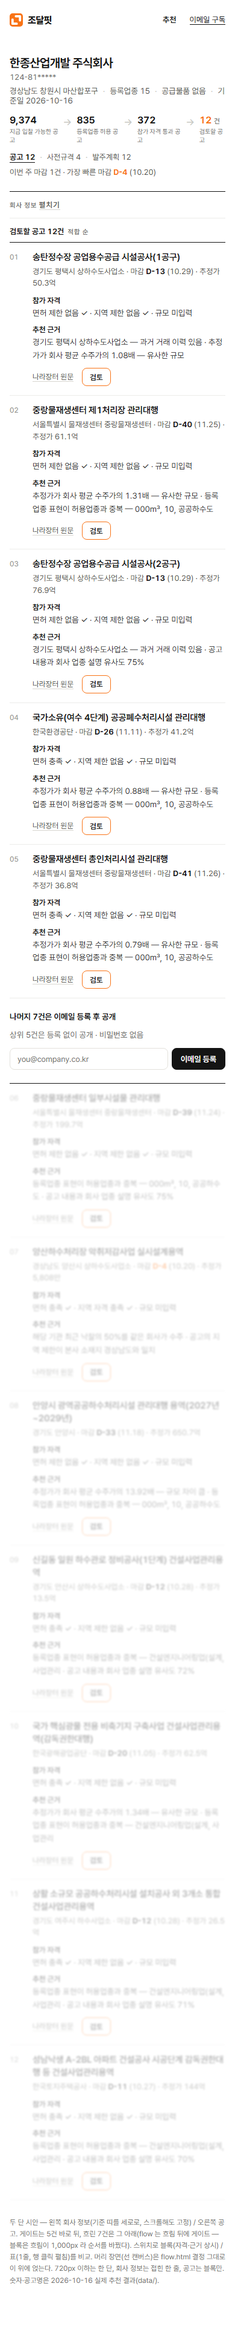
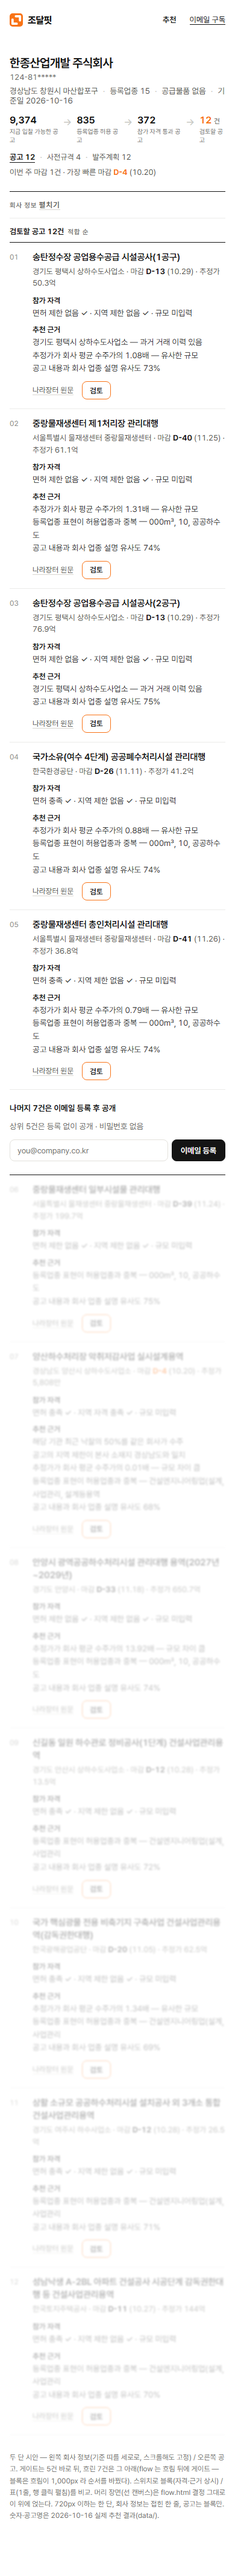
design(results): 두 단 블록 — 추천 근거 2개 자르기 폐기, 전부 한 줄씩

diff --git a/docs/design/prototypes/split.html b/docs/design/prototypes/split.html
@@ -92,7 +92,7 @@ a { color:inherit; text-decoration:none } .dim { color:#6b6b67 } .mute { color:#
   .bk .q, .bk .w { grid-template-columns:1fr; gap:0 } .bk .m { line-height:1.5 }
   .gateline .in { width:100%; flex-wrap:wrap } .gateline .in span:first-child { flex:1; width:auto }
 }
-</style></head><body data-v="block"><div class="wrap"><div class="nav"><a class="brand" href="#"><svg viewBox="0 0 64 64" width="22" height="22" aria-hidden="true"><rect width="64" height="64" rx="14.08" fill="#f97316"/><path d="M30 14 H50 V34 M14 30 V50 H34" fill="none" stroke="#fff" stroke-width="11" stroke-linecap="round" stroke-linejoin="round"/></svg>조달핏</a><div class="links"><b>추천</b><span>검토함</span><span>개선 기록</span><span class="cta">이메일 구독</span></div></div><div class="head"><h1>한종산업개발 주식회사<small>124-81*****</small></h1><div class="meta"><span>경상남도 창원시 마산합포구</span><span>등록업종 15</span><span>공급물품 없음</span><span>기준일 2026-10-16</span></div><div class="sum"><div class="chain"><span class="k">걸러낸 경로</span><div><div class="n ">9,374</div><div class="l">지금 입찰 가능한 공고</div></div><i>→</i><div><div class="n ">835</div><div class="l">등록업종 허용 공고</div></div><i>→</i><div><div class="n ">372</div><div class="l">참가 자격 통과 공고</div></div><i>→</i><div><div class="n acc">12<small>건</small></div><div class="l">검토할 공고</div></div></div><div class="tabs"><div><b>공고 12</b><span>사전규격 4</span><span>발주계획 12</span></div><div class="due">이번 주 마감 1건 · 가장 빠른 마감 <span class="d hot">D-4</span> (10.20)</div></div></div></div><div class="cols"><details class="side" open><summary><span class="k">회사 정보 <span class="h o">펼치기</span><span class="h c">접기</span></span></summary><div class="sec"><span class="k">등록업종 15</span><ul><li class="rep">기타자유업종</li><li>가축분뇨시설관리업</li><li>건설엔지니어링업</li><li>공공하수도 관리대행업</li><li>산업·환경설비공사업</li><li>시설물관리를 전문으로 하는 자</li><li>엔지니어링사업</li><li>유독물관리대행기관</li><li>전기공사업</li><li>전문소방시설공사업</li><li>환경전문공사업</li></ul></div><div class="sec"><span class="k">공급물품</span><div class="txt"><span class="dim">등록 없음</span> — 물품 공고 추천에는 등록 필요</div></div><div class="sec"><span class="k">지역</span><div class="txt">본사 <b>경상남도 창원시 마산합포구</b><br><span class="dim">지역 제한 공고 판정 기준</span></div></div><div class="sec"><span class="k">면허</span><div class="txt">공고 요구 면허 그룹마다 등록업종 중 하나 포함 시 통과</div></div><div class="sec"><span class="k">규모</span><div class="txt"><span class="dim">미입력</span> — 소기업·중소기업 제한 공고 판정 기준</div></div><div class="sec"><span class="k">사업자 상태</span><div class="txt">계속사업자 · 제재 없음</div></div><div class="act"><a class="bt dark" href="#">확인</a><a class="bt txt" href="#"><u>수정 요청</u></a></div><span class="mute">나라장터 업체정보 · 10.14 갱신</span></details><div class="main"><div class="mh"><span class="k"><b>검토할 공고 12건</b>적합 순</span><div class="sw"><span class="on" data-v="block">블록</span><span data-v="table">표</span></div></div><div class="v-block"><div class="bk"><span class="no">01</span><div><div class="t">송탄정수장 공업용수공급 시설공사(1공구)</div><div class="m">경기도 평택시 상하수도사업소 · 마감 <span class="d ">D-13</span> (10.29) · 추정가 50.3억</div><div class="q"><b>참가 자격</b><span>면허 제한 없음 ✓ · 지역 제한 없음 ✓ · 규모 미입력</span></div><div class="w"><b>추천 근거</b><span>경기도 평택시 상하수도사업소 — 과거 거래 이력 있음 · 추정가가 회사 평균 수주가의 1.08배 — 유사한 규모</span></div><div class="acts"><a class="u" href="https://www.g2b.go.kr/link/PNPE027_01/single/?bidPbancNo=R26BK01773124&amp;bidPbancOrd=000">나라장터 원문</a><a class="bt rv" href="#">검토</a></div></div></div><div class="bk"><span class="no">02</span><div><div class="t">중랑물재생센터 제1처리장 관리대행</div><div class="m">서울특별시 물재생센터 중랑물재생센터 · 마감 <span class="d ">D-40</span> (11.25) · 추정가 61.1억</div><div class="q"><b>참가 자격</b><span>면허 제한 없음 ✓ · 지역 제한 없음 ✓ · 규모 미입력</span></div><div class="w"><b>추천 근거</b><span>추정가가 회사 평균 수주가의 1.31배 — 유사한 규모 · 등록업종 표현이 허용업종과 중복 — 000㎥, 10, 공공하수도</span></div><div class="acts"><a class="u" href="https://www.g2b.go.kr/link/PNPE027_01/single/?bidPbancNo=R26BK01771325&amp;bidPbancOrd=001">나라장터 원문</a><a class="bt rv" href="#">검토</a></div></div></div><div class="bk"><span class="no">03</span><div><div class="t">송탄정수장 공업용수공급 시설공사(2공구)</div><div class="m">경기도 평택시 상하수도사업소 · 마감 <span class="d ">D-13</span> (10.29) · 추정가 76.9억</div><div class="q"><b>참가 자격</b><span>면허 제한 없음 ✓ · 지역 제한 없음 ✓ · 규모 미입력</span></div><div class="w"><b>추천 근거</b><span>경기도 평택시 상하수도사업소 — 과거 거래 이력 있음 · 공고 내용과 회사 업종 설명 유사도 75%</span></div><div class="acts"><a class="u" href="https://www.g2b.go.kr/link/PNPE027_01/single/?bidPbancNo=R26BK01772889&amp;bidPbancOrd=000">나라장터 원문</a><a class="bt rv" href="#">검토</a></div></div></div><div class="bk"><span class="no">04</span><div><div class="t">국가소유(여수 4단계) 공공폐수처리시설 관리대행</div><div class="m">한국환경공단 · 마감 <span class="d ">D-26</span> (11.11) · 추정가 41.2억</div><div class="q"><b>참가 자격</b><span>면허 충족 ✓ · 지역 제한 없음 ✓ · 규모 미입력</span></div><div class="w"><b>추천 근거</b><span>추정가가 회사 평균 수주가의 0.88배 — 유사한 규모 · 등록업종 표현이 허용업종과 중복 — 000㎥, 10, 공공하수도</span></div><div class="acts"><a class="u" href="https://www.g2b.go.kr/link/PNPE027_01/single/?bidPbancNo=R26BK01751505&amp;bidPbancOrd=000">나라장터 원문</a><a class="bt rv" href="#">검토</a></div></div></div><div class="bk"><span class="no">05</span><div><div class="t">중랑물재생센터 총인처리시설 관리대행</div><div class="m">서울특별시 물재생센터 중랑물재생센터 · 마감 <span class="d ">D-41</span> (11.26) · 추정가 36.8억</div><div class="q"><b>참가 자격</b><span>면허 충족 ✓ · 지역 제한 없음 ✓ · 규모 미입력</span></div><div class="w"><b>추천 근거</b><span>추정가가 회사 평균 수주가의 0.79배 — 유사한 규모 · 등록업종 표현이 허용업종과 중복 — 000㎥, 10, 공공하수도</span></div><div class="acts"><a class="u" href="https://www.g2b.go.kr/link/PNPE027_01/single/?bidPbancNo=R26BK01771347&amp;bidPbancOrd=000">나라장터 원문</a><a class="bt rv" href="#">검토</a></div></div></div><div class="gateline"><b>나머지 7건은 이메일 등록 후 공개</b><span class="dim">상위 5건은 등록 없이 공개 · 비밀번호 없음</span><span class="sp"></span><span class="in"><span>you@company.co.kr</span><span class="bt dark">이메일 등록</span></span></div><div class="fade"><div class="bk"><span class="no">06</span><div><div class="t">중랑물재생센터 일부시설물 관리대행</div><div class="m">서울특별시 물재생센터 중랑물재생센터 · 마감 <span class="d ">D-39</span> (11.24) · 추정가 199.7억</div><div class="q"><b>참가 자격</b><span>면허 제한 없음 ✓ · 지역 제한 없음 ✓ · 규모 미입력</span></div><div class="w"><b>추천 근거</b><span>등록업종 표현이 허용업종과 중복 — 000㎥, 10, 공공하수도 · 공고 내용과 회사 업종 설명 유사도 75%</span></div><div class="acts"><a class="u" href="https://www.g2b.go.kr/link/PNPE027_01/single/?bidPbancNo=R26BK01771266&amp;bidPbancOrd=001">나라장터 원문</a><a class="bt rv" href="#">검토</a></div></div></div><div class="bk"><span class="no">07</span><div><div class="t">양산하수처리장 악취저감사업 실시설계용역</div><div class="m">경상남도 양산시 상하수도사업소 · 마감 <span class="d hot">D-4</span> (10.20) · 추정가 5,808만</div><div class="q"><b>참가 자격</b><span>면허 충족 ✓ · 지역 자격 충족 ✓ · 규모 미입력</span></div><div class="w"><b>추천 근거</b><span>해당 기관 최근 낙찰의 50%를 같은 회사가 수주 · 공고의 지역 제한이 본사 소재지 경상남도와 일치</span></div><div class="acts"><a class="u" href="https://www.g2b.go.kr/link/PNPE027_01/single/?bidPbancNo=R26BK01769297&amp;bidPbancOrd=000">나라장터 원문</a><a class="bt rv" href="#">검토</a></div></div></div><div class="bk"><span class="no">08</span><div><div class="t">안양시 광역공공하수처리시설 관리대행 용역(2027년~2029년)</div><div class="m">경기도 안양시 · 마감 <span class="d ">D-33</span> (11.18) · 추정가 650.7억</div><div class="q"><b>참가 자격</b><span>면허 제한 없음 ✓ · 지역 제한 없음 ✓ · 규모 미입력</span></div><div class="w"><b>추천 근거</b><span>추정가가 회사 평균 수주가의 13.92배 — 규모 차이 큼 · 등록업종 표현이 허용업종과 중복 — 000㎥, 10, 공공하수도</span></div><div class="acts"><a class="u" href="https://www.g2b.go.kr/link/PNPE027_01/single/?bidPbancNo=R26BK01772155&amp;bidPbancOrd=000">나라장터 원문</a><a class="bt rv" href="#">검토</a></div></div></div><div class="bk"><span class="no">09</span><div><div class="t">신길동 일원 하수관로 정비공사(1단계) 건설사업관리용역</div><div class="m">경기도 안산시 상하수도사업소 · 마감 <span class="d ">D-12</span> (10.28) · 추정가 13.5억</div><div class="q"><b>참가 자격</b><span>면허 충족 ✓ · 지역 제한 없음 ✓ · 규모 미입력</span></div><div class="w"><b>추천 근거</b><span>등록업종 표현이 허용업종과 중복 — 건설엔지니어링업(설계, 사업관리 · 공고 내용과 회사 업종 설명 유사도 72%</span></div><div class="acts"><a class="u" href="https://www.g2b.go.kr/link/PNPE027_01/single/?bidPbancNo=R26BK01752112&amp;bidPbancOrd=000">나라장터 원문</a><a class="bt rv" href="#">검토</a></div></div></div><div class="bk"><span class="no">10</span><div><div class="t">국가 핵심광물 전용 비축기지 구축사업 건설사업관리용역(감독권한대행)</div><div class="m">한국광해광업공단 · 마감 <span class="d ">D-20</span> (11.05) · 추정가 62.5억</div><div class="q"><b>참가 자격</b><span>면허 충족 ✓ · 지역 제한 없음 ✓ · 규모 미입력</span></div><div class="w"><b>추천 근거</b><span>추정가가 회사 평균 수주가의 1.34배 — 유사한 규모 · 등록업종 표현이 허용업종과 중복 — 건설엔지니어링업(설계, 사업관리</span></div><div class="acts"><a class="u" href="https://www.g2b.go.kr/link/PNPE027_01/single/?bidPbancNo=R26BK01740690&amp;bidPbancOrd=000">나라장터 원문</a><a class="bt rv" href="#">검토</a></div></div></div><div class="bk"><span class="no">11</span><div><div class="t">상활 소규모 공공하수처리시설 설치공사 외 3개소 통합 건설사업관리용역</div><div class="m">경기도 여주시 하수사업소 · 마감 <span class="d ">D-12</span> (10.28) · 추정가 26.5억</div><div class="q"><b>참가 자격</b><span>면허 충족 ✓ · 지역 제한 없음 ✓ · 규모 미입력</span></div><div class="w"><b>추천 근거</b><span>등록업종 표현이 허용업종과 중복 — 건설엔지니어링업(설계, 사업관리 · 공고 내용과 회사 업종 설명 유사도 71%</span></div><div class="acts"><a class="u" href="https://www.g2b.go.kr/link/PNPE027_01/single/?bidPbancNo=R26BK01751860&amp;bidPbancOrd=000">나라장터 원문</a><a class="bt rv" href="#">검토</a></div></div></div><div class="bk"><span class="no">12</span><div><div class="t">성남낙생 A-2BL 아파트 건설공사 시공단계 감독권한대행 등 건설사업관리용역</div><div class="m">한국토지주택공사 · 마감 <span class="d ">D-11</span> (10.27) · 추정가 144억</div><div class="q"><b>참가 자격</b><span>면허 충족 ✓ · 지역 제한 없음 ✓ · 규모 미입력</span></div><div class="w"><b>추천 근거</b><span>등록업종 표현이 허용업종과 중복 — 건설엔지니어링업(설계, 사업관리 · 공고 내용과 회사 업종 설명 유사도 70%</span></div><div class="acts"><a class="u" href="https://www.g2b.go.kr/link/PNPE027_01/single/?bidPbancNo=R26BK01718563&amp;bidPbancOrd=001">나라장터 원문</a><a class="bt rv" href="#">검토</a></div></div></div></div></div><div class="v-table"><div class="th"><span>#</span><span>공고 · 발주기관 · 근거</span><span class="r">마감</span><span class="r">추정가</span></div><div class="tr"><span class="no">01</span><span><span class="t">송탄정수장 공업용수공급 시설공사(1공구)</span><span class="sub">경기도 평택시 상하수도사업소<span class="why">재출현 기관</span></span></span><span class="r d ">D-13<small>10.29</small></span><span class="r">50.3억</span></div><div class="x on"><div><span class="k">참가 자격</span><ul><li class="ok">면허 — 제한 없음</li><li class="ok">지역 — 제한 없음</li><li class="todo">규모 — 중소기업 확인서 요구 여부는 문서 조건에서, 회사 규모 미입력</li></ul></div><div><span class="k">추천 근거</span><ul><li>경기도 평택시 상하수도사업소 — 과거 거래 이력 있음</li><li>추정가가 회사 평균 수주가의 1.08배 — 유사한 규모</li><li>공고 내용과 회사 업종 설명 유사도 73%</li></ul></div><div class="acts"><a class="bt dark" href="https://www.g2b.go.kr/link/PNPE027_01/single/?bidPbancNo=R26BK01773124&amp;bidPbancOrd=000">나라장터 원문</a><a class="bt rv" href="#">검토</a></div></div><div class="tr"><span class="no">02</span><span><span class="t">중랑물재생센터 제1처리장 관리대행</span><span class="sub">서울특별시 물재생센터 중랑물재생센터<span class="why">업종·물품 일치</span></span></span><span class="r d ">D-40<small>11.25</small></span><span class="r">61.1억</span></div><div class="x "><div><span class="k">참가 자격</span><ul><li class="ok">면허 — 제한 없음</li><li class="ok">지역 — 제한 없음</li><li class="todo">규모 — 중소기업 확인서 요구 여부는 문서 조건에서, 회사 규모 미입력</li></ul></div><div><span class="k">추천 근거</span><ul><li>추정가가 회사 평균 수주가의 1.31배 — 유사한 규모</li><li>등록업종 표현이 허용업종과 중복 — 000㎥, 10, 공공하수도</li><li>공고 내용과 회사 업종 설명 유사도 74%</li></ul></div><div class="acts"><a class="bt dark" href="https://www.g2b.go.kr/link/PNPE027_01/single/?bidPbancNo=R26BK01771325&amp;bidPbancOrd=001">나라장터 원문</a><a class="bt rv" href="#">검토</a></div></div><div class="tr"><span class="no">03</span><span><span class="t">송탄정수장 공업용수공급 시설공사(2공구)</span><span class="sub">경기도 평택시 상하수도사업소<span class="why">재출현 기관</span></span></span><span class="r d ">D-13<small>10.29</small></span><span class="r">76.9억</span></div><div class="x "><div><span class="k">참가 자격</span><ul><li class="ok">면허 — 제한 없음</li><li class="ok">지역 — 제한 없음</li><li class="todo">규모 — 중소기업 확인서 요구 여부는 문서 조건에서, 회사 규모 미입력</li></ul></div><div><span class="k">추천 근거</span><ul><li>경기도 평택시 상하수도사업소 — 과거 거래 이력 있음</li><li>공고 내용과 회사 업종 설명 유사도 75%</li></ul></div><div class="acts"><a class="bt dark" href="https://www.g2b.go.kr/link/PNPE027_01/single/?bidPbancNo=R26BK01772889&amp;bidPbancOrd=000">나라장터 원문</a><a class="bt rv" href="#">검토</a></div></div><div class="tr"><span class="no">04</span><span><span class="t">국가소유(여수 4단계) 공공폐수처리시설 관리대행</span><span class="sub">한국환경공단<span class="why">업종·물품 일치</span></span></span><span class="r d ">D-26<small>11.11</small></span><span class="r">41.2억</span></div><div class="x "><div><span class="k">참가 자격</span><ul><li class="ok">면허 — 충족</li><li class="ok">지역 — 제한 없음</li><li class="todo">규모 — 중소기업 확인서 요구 여부는 문서 조건에서, 회사 규모 미입력</li></ul></div><div><span class="k">추천 근거</span><ul><li>추정가가 회사 평균 수주가의 0.88배 — 유사한 규모</li><li>등록업종 표현이 허용업종과 중복 — 000㎥, 10, 공공하수도</li><li>공고 내용과 회사 업종 설명 유사도 74%</li></ul></div><div class="acts"><a class="bt dark" href="https://www.g2b.go.kr/link/PNPE027_01/single/?bidPbancNo=R26BK01751505&amp;bidPbancOrd=000">나라장터 원문</a><a class="bt rv" href="#">검토</a></div></div><div class="tr"><span class="no">05</span><span><span class="t">중랑물재생센터 총인처리시설 관리대행</span><span class="sub">서울특별시 물재생센터 중랑물재생센터<span class="why">업종·물품 일치</span></span></span><span class="r d ">D-41<small>11.26</small></span><span class="r">36.8억</span></div><div class="x "><div><span class="k">참가 자격</span><ul><li class="ok">면허 — 충족</li><li class="ok">지역 — 제한 없음</li><li class="todo">규모 — 중소기업 확인서 요구 여부는 문서 조건에서, 회사 규모 미입력</li></ul></div><div><span class="k">추천 근거</span><ul><li>추정가가 회사 평균 수주가의 0.79배 — 유사한 규모</li><li>등록업종 표현이 허용업종과 중복 — 000㎥, 10, 공공하수도</li><li>공고 내용과 회사 업종 설명 유사도 74%</li></ul></div><div class="acts"><a class="bt dark" href="https://www.g2b.go.kr/link/PNPE027_01/single/?bidPbancNo=R26BK01771347&amp;bidPbancOrd=000">나라장터 원문</a><a class="bt rv" href="#">검토</a></div></div><div class="gateline"><b>나머지 7건은 이메일 등록 후 공개</b><span class="dim">상위 5건은 등록 없이 공개 · 비밀번호 없음</span><span class="sp"></span><span class="in"><span>you@company.co.kr</span><span class="bt dark">이메일 등록</span></span></div><div class="fade"><div class="tr"><span class="no">06</span><span><span class="t">중랑물재생센터 일부시설물 관리대행</span><span class="sub">서울특별시 물재생센터 중랑물재생센터<span class="why">업종·물품 일치</span></span></span><span class="r d ">D-39<small>11.24</small></span><span class="r">199.7억</span></div><div class="x "><div><span class="k">참가 자격</span><ul><li class="ok">면허 — 제한 없음</li><li class="ok">지역 — 제한 없음</li><li class="todo">규모 — 중소기업 확인서 요구 여부는 문서 조건에서, 회사 규모 미입력</li></ul></div><div><span class="k">추천 근거</span><ul><li>등록업종 표현이 허용업종과 중복 — 000㎥, 10, 공공하수도</li><li>공고 내용과 회사 업종 설명 유사도 75%</li></ul></div><div class="acts"><a class="bt dark" href="https://www.g2b.go.kr/link/PNPE027_01/single/?bidPbancNo=R26BK01771266&amp;bidPbancOrd=001">나라장터 원문</a><a class="bt rv" href="#">검토</a></div></div><div class="tr"><span class="no">07</span><span><span class="t">양산하수처리장 악취저감사업 실시설계용역</span><span class="sub">경상남도 양산시 상하수도사업소<span class="why">지역 매칭</span></span></span><span class="r d hot">D-4<small>10.20</small></span><span class="r">5,808만</span></div><div class="x "><div><span class="k">참가 자격</span><ul><li class="ok">면허 — 충족</li><li class="ok">지역 — 자격 충족</li><li class="todo">규모 — 중소기업 확인서 요구 여부는 문서 조건에서, 회사 규모 미입력</li></ul></div><div><span class="k">추천 근거</span><ul><li>해당 기관 최근 낙찰의 50%를 같은 회사가 수주</li><li>공고의 지역 제한이 본사 소재지 경상남도와 일치</li><li>추정가가 회사 평균 수주가의 0.01배 — 규모 차이 큼</li><li>등록업종 표현이 허용업종과 중복 — 건설엔지니어링업(설계, 사업관리, 설계등용역</li><li>공고 내용과 회사 업종 설명 유사도 68%</li></ul></div><div class="acts"><a class="bt dark" href="https://www.g2b.go.kr/link/PNPE027_01/single/?bidPbancNo=R26BK01769297&amp;bidPbancOrd=000">나라장터 원문</a><a class="bt rv" href="#">검토</a></div></div><div class="tr"><span class="no">08</span><span><span class="t">안양시 광역공공하수처리시설 관리대행 용역(2027년~2029년)</span><span class="sub">경기도 안양시<span class="why">업종·물품 일치</span></span></span><span class="r d ">D-33<small>11.18</small></span><span class="r">650.7억</span></div><div class="x "><div><span class="k">참가 자격</span><ul><li class="ok">면허 — 제한 없음</li><li class="ok">지역 — 제한 없음</li><li class="todo">규모 — 중소기업 확인서 요구 여부는 문서 조건에서, 회사 규모 미입력</li></ul></div><div><span class="k">추천 근거</span><ul><li>추정가가 회사 평균 수주가의 13.92배 — 규모 차이 큼</li><li>등록업종 표현이 허용업종과 중복 — 000㎥, 10, 공공하수도</li><li>공고 내용과 회사 업종 설명 유사도 74%</li></ul></div><div class="acts"><a class="bt dark" href="https://www.g2b.go.kr/link/PNPE027_01/single/?bidPbancNo=R26BK01772155&amp;bidPbancOrd=000">나라장터 원문</a><a class="bt rv" href="#">검토</a></div></div><div class="tr"><span class="no">09</span><span><span class="t">신길동 일원 하수관로 정비공사(1단계) 건설사업관리용역</span><span class="sub">경기도 안산시 상하수도사업소<span class="why">업종·물품 일치</span></span></span><span class="r d ">D-12<small>10.28</small></span><span class="r">13.5억</span></div><div class="x "><div><span class="k">참가 자격</span><ul><li class="ok">면허 — 충족</li><li class="ok">지역 — 제한 없음</li><li class="todo">규모 — 중소기업 확인서 요구 여부는 문서 조건에서, 회사 규모 미입력</li></ul></div><div><span class="k">추천 근거</span><ul><li>등록업종 표현이 허용업종과 중복 — 건설엔지니어링업(설계, 사업관리</li><li>공고 내용과 회사 업종 설명 유사도 72%</li></ul></div><div class="acts"><a class="bt dark" href="https://www.g2b.go.kr/link/PNPE027_01/single/?bidPbancNo=R26BK01752112&amp;bidPbancOrd=000">나라장터 원문</a><a class="bt rv" href="#">검토</a></div></div><div class="tr"><span class="no">10</span><span><span class="t">국가 핵심광물 전용 비축기지 구축사업 건설사업관리용역(감독권한대행)</span><span class="sub">한국광해광업공단<span class="why">업종·물품 일치</span></span></span><span class="r d ">D-20<small>11.05</small></span><span class="r">62.5억</span></div><div class="x "><div><span class="k">참가 자격</span><ul><li class="ok">면허 — 충족</li><li class="ok">지역 — 제한 없음</li><li class="todo">규모 — 중소기업 확인서 요구 여부는 문서 조건에서, 회사 규모 미입력</li></ul></div><div><span class="k">추천 근거</span><ul><li>추정가가 회사 평균 수주가의 1.34배 — 유사한 규모</li><li>등록업종 표현이 허용업종과 중복 — 건설엔지니어링업(설계, 사업관리</li><li>공고 내용과 회사 업종 설명 유사도 69%</li></ul></div><div class="acts"><a class="bt dark" href="https://www.g2b.go.kr/link/PNPE027_01/single/?bidPbancNo=R26BK01740690&amp;bidPbancOrd=000">나라장터 원문</a><a class="bt rv" href="#">검토</a></div></div><div class="tr"><span class="no">11</span><span><span class="t">상활 소규모 공공하수처리시설 설치공사 외 3개소 통합 건설사업관리용역</span><span class="sub">경기도 여주시 하수사업소<span class="why">업종·물품 일치</span></span></span><span class="r d ">D-12<small>10.28</small></span><span class="r">26.5억</span></div><div class="x "><div><span class="k">참가 자격</span><ul><li class="ok">면허 — 충족</li><li class="ok">지역 — 제한 없음</li><li class="todo">규모 — 중소기업 확인서 요구 여부는 문서 조건에서, 회사 규모 미입력</li></ul></div><div><span class="k">추천 근거</span><ul><li>등록업종 표현이 허용업종과 중복 — 건설엔지니어링업(설계, 사업관리</li><li>공고 내용과 회사 업종 설명 유사도 71%</li></ul></div><div class="acts"><a class="bt dark" href="https://www.g2b.go.kr/link/PNPE027_01/single/?bidPbancNo=R26BK01751860&amp;bidPbancOrd=000">나라장터 원문</a><a class="bt rv" href="#">검토</a></div></div><div class="tr"><span class="no">12</span><span><span class="t">성남낙생 A-2BL 아파트 건설공사 시공단계 감독권한대행 등 건설사업관리용역</span><span class="sub">한국토지주택공사<span class="why">업종·물품 일치</span></span></span><span class="r d ">D-11<small>10.27</small></span><span class="r">144억</span></div><div class="x "><div><span class="k">참가 자격</span><ul><li class="ok">면허 — 충족</li><li class="ok">지역 — 제한 없음</li><li class="todo">규모 — 중소기업 확인서 요구 여부는 문서 조건에서, 회사 규모 미입력</li></ul></div><div><span class="k">추천 근거</span><ul><li>등록업종 표현이 허용업종과 중복 — 건설엔지니어링업(설계, 사업관리</li><li>공고 내용과 회사 업종 설명 유사도 70%</li></ul></div><div class="acts"><a class="bt dark" href="https://www.g2b.go.kr/link/PNPE027_01/single/?bidPbancNo=R26BK01718563&amp;bidPbancOrd=001">나라장터 원문</a><a class="bt rv" href="#">검토</a></div></div></div></div></div></div><div class="foot">두 단 시안 — 왼쪽 회사 정보(기준 띠를 세로로, 스크롤해도 고정) / 오른쪽 공고. 게이트는 5건 바로 뒤, 흐린 7건은 그 아래(flow 는 흐림 뒤에 게이트 — 블록은 흐림이 1,000px 라 순서를 바꿨다). 스위치로 블록(자격·근거 상시) / 표(1줄, 행 클릭 펼침)를 비교. 머리 장면(선 캔버스)은 flow.html 결정 그대로 이 위에 얹는다. 720px 이하는 한 단, 회사 정보는 접힌 한 줄, 공고는 블록만. 숫자·공고명은 2026-10-16 실제 추천 결과(data/).</div></div><script>
+</style></head><body data-v="block"><div class="wrap"><div class="nav"><a class="brand" href="#"><svg viewBox="0 0 64 64" width="22" height="22" aria-hidden="true"><rect width="64" height="64" rx="14.08" fill="#f97316"/><path d="M30 14 H50 V34 M14 30 V50 H34" fill="none" stroke="#fff" stroke-width="11" stroke-linecap="round" stroke-linejoin="round"/></svg>조달핏</a><div class="links"><b>추천</b><span>검토함</span><span>개선 기록</span><span class="cta">이메일 구독</span></div></div><div class="head"><h1>한종산업개발 주식회사<small>124-81*****</small></h1><div class="meta"><span>경상남도 창원시 마산합포구</span><span>등록업종 15</span><span>공급물품 없음</span><span>기준일 2026-10-16</span></div><div class="sum"><div class="chain"><span class="k">걸러낸 경로</span><div><div class="n ">9,374</div><div class="l">지금 입찰 가능한 공고</div></div><i>→</i><div><div class="n ">835</div><div class="l">등록업종 허용 공고</div></div><i>→</i><div><div class="n ">372</div><div class="l">참가 자격 통과 공고</div></div><i>→</i><div><div class="n acc">12<small>건</small></div><div class="l">검토할 공고</div></div></div><div class="tabs"><div><b>공고 12</b><span>사전규격 4</span><span>발주계획 12</span></div><div class="due">이번 주 마감 1건 · 가장 빠른 마감 <span class="d hot">D-4</span> (10.20)</div></div></div></div><div class="cols"><details class="side" open><summary><span class="k">회사 정보 <span class="h o">펼치기</span><span class="h c">접기</span></span></summary><div class="sec"><span class="k">등록업종 15</span><ul><li class="rep">기타자유업종</li><li>가축분뇨시설관리업</li><li>건설엔지니어링업</li><li>공공하수도 관리대행업</li><li>산업·환경설비공사업</li><li>시설물관리를 전문으로 하는 자</li><li>엔지니어링사업</li><li>유독물관리대행기관</li><li>전기공사업</li><li>전문소방시설공사업</li><li>환경전문공사업</li></ul></div><div class="sec"><span class="k">공급물품</span><div class="txt"><span class="dim">등록 없음</span> — 물품 공고 추천에는 등록 필요</div></div><div class="sec"><span class="k">지역</span><div class="txt">본사 <b>경상남도 창원시 마산합포구</b><br><span class="dim">지역 제한 공고 판정 기준</span></div></div><div class="sec"><span class="k">면허</span><div class="txt">공고 요구 면허 그룹마다 등록업종 중 하나 포함 시 통과</div></div><div class="sec"><span class="k">규모</span><div class="txt"><span class="dim">미입력</span> — 소기업·중소기업 제한 공고 판정 기준</div></div><div class="sec"><span class="k">사업자 상태</span><div class="txt">계속사업자 · 제재 없음</div></div><div class="act"><a class="bt dark" href="#">확인</a><a class="bt txt" href="#"><u>수정 요청</u></a></div><span class="mute">나라장터 업체정보 · 10.14 갱신</span></details><div class="main"><div class="mh"><span class="k"><b>검토할 공고 12건</b>적합 순</span><div class="sw"><span class="on" data-v="block">블록</span><span data-v="table">표</span></div></div><div class="v-block"><div class="bk"><span class="no">01</span><div><div class="t">송탄정수장 공업용수공급 시설공사(1공구)</div><div class="m">경기도 평택시 상하수도사업소 · 마감 <span class="d ">D-13</span> (10.29) · 추정가 50.3억</div><div class="q"><b>참가 자격</b><span>면허 제한 없음 ✓ · 지역 제한 없음 ✓ · 규모 미입력</span></div><div class="w"><b>추천 근거</b><span>경기도 평택시 상하수도사업소 — 과거 거래 이력 있음<br>추정가가 회사 평균 수주가의 1.08배 — 유사한 규모<br>공고 내용과 회사 업종 설명 유사도 73%</span></div><div class="acts"><a class="u" href="https://www.g2b.go.kr/link/PNPE027_01/single/?bidPbancNo=R26BK01773124&amp;bidPbancOrd=000">나라장터 원문</a><a class="bt rv" href="#">검토</a></div></div></div><div class="bk"><span class="no">02</span><div><div class="t">중랑물재생센터 제1처리장 관리대행</div><div class="m">서울특별시 물재생센터 중랑물재생센터 · 마감 <span class="d ">D-40</span> (11.25) · 추정가 61.1억</div><div class="q"><b>참가 자격</b><span>면허 제한 없음 ✓ · 지역 제한 없음 ✓ · 규모 미입력</span></div><div class="w"><b>추천 근거</b><span>추정가가 회사 평균 수주가의 1.31배 — 유사한 규모<br>등록업종 표현이 허용업종과 중복 — 000㎥, 10, 공공하수도<br>공고 내용과 회사 업종 설명 유사도 74%</span></div><div class="acts"><a class="u" href="https://www.g2b.go.kr/link/PNPE027_01/single/?bidPbancNo=R26BK01771325&amp;bidPbancOrd=001">나라장터 원문</a><a class="bt rv" href="#">검토</a></div></div></div><div class="bk"><span class="no">03</span><div><div class="t">송탄정수장 공업용수공급 시설공사(2공구)</div><div class="m">경기도 평택시 상하수도사업소 · 마감 <span class="d ">D-13</span> (10.29) · 추정가 76.9억</div><div class="q"><b>참가 자격</b><span>면허 제한 없음 ✓ · 지역 제한 없음 ✓ · 규모 미입력</span></div><div class="w"><b>추천 근거</b><span>경기도 평택시 상하수도사업소 — 과거 거래 이력 있음<br>공고 내용과 회사 업종 설명 유사도 75%</span></div><div class="acts"><a class="u" href="https://www.g2b.go.kr/link/PNPE027_01/single/?bidPbancNo=R26BK01772889&amp;bidPbancOrd=000">나라장터 원문</a><a class="bt rv" href="#">검토</a></div></div></div><div class="bk"><span class="no">04</span><div><div class="t">국가소유(여수 4단계) 공공폐수처리시설 관리대행</div><div class="m">한국환경공단 · 마감 <span class="d ">D-26</span> (11.11) · 추정가 41.2억</div><div class="q"><b>참가 자격</b><span>면허 충족 ✓ · 지역 제한 없음 ✓ · 규모 미입력</span></div><div class="w"><b>추천 근거</b><span>추정가가 회사 평균 수주가의 0.88배 — 유사한 규모<br>등록업종 표현이 허용업종과 중복 — 000㎥, 10, 공공하수도<br>공고 내용과 회사 업종 설명 유사도 74%</span></div><div class="acts"><a class="u" href="https://www.g2b.go.kr/link/PNPE027_01/single/?bidPbancNo=R26BK01751505&amp;bidPbancOrd=000">나라장터 원문</a><a class="bt rv" href="#">검토</a></div></div></div><div class="bk"><span class="no">05</span><div><div class="t">중랑물재생센터 총인처리시설 관리대행</div><div class="m">서울특별시 물재생센터 중랑물재생센터 · 마감 <span class="d ">D-41</span> (11.26) · 추정가 36.8억</div><div class="q"><b>참가 자격</b><span>면허 충족 ✓ · 지역 제한 없음 ✓ · 규모 미입력</span></div><div class="w"><b>추천 근거</b><span>추정가가 회사 평균 수주가의 0.79배 — 유사한 규모<br>등록업종 표현이 허용업종과 중복 — 000㎥, 10, 공공하수도<br>공고 내용과 회사 업종 설명 유사도 74%</span></div><div class="acts"><a class="u" href="https://www.g2b.go.kr/link/PNPE027_01/single/?bidPbancNo=R26BK01771347&amp;bidPbancOrd=000">나라장터 원문</a><a class="bt rv" href="#">검토</a></div></div></div><div class="gateline"><b>나머지 7건은 이메일 등록 후 공개</b><span class="dim">상위 5건은 등록 없이 공개 · 비밀번호 없음</span><span class="sp"></span><span class="in"><span>you@company.co.kr</span><span class="bt dark">이메일 등록</span></span></div><div class="fade"><div class="bk"><span class="no">06</span><div><div class="t">중랑물재생센터 일부시설물 관리대행</div><div class="m">서울특별시 물재생센터 중랑물재생센터 · 마감 <span class="d ">D-39</span> (11.24) · 추정가 199.7억</div><div class="q"><b>참가 자격</b><span>면허 제한 없음 ✓ · 지역 제한 없음 ✓ · 규모 미입력</span></div><div class="w"><b>추천 근거</b><span>등록업종 표현이 허용업종과 중복 — 000㎥, 10, 공공하수도<br>공고 내용과 회사 업종 설명 유사도 75%</span></div><div class="acts"><a class="u" href="https://www.g2b.go.kr/link/PNPE027_01/single/?bidPbancNo=R26BK01771266&amp;bidPbancOrd=001">나라장터 원문</a><a class="bt rv" href="#">검토</a></div></div></div><div class="bk"><span class="no">07</span><div><div class="t">양산하수처리장 악취저감사업 실시설계용역</div><div class="m">경상남도 양산시 상하수도사업소 · 마감 <span class="d hot">D-4</span> (10.20) · 추정가 5,808만</div><div class="q"><b>참가 자격</b><span>면허 충족 ✓ · 지역 자격 충족 ✓ · 규모 미입력</span></div><div class="w"><b>추천 근거</b><span>해당 기관 최근 낙찰의 50%를 같은 회사가 수주<br>공고의 지역 제한이 본사 소재지 경상남도와 일치<br>추정가가 회사 평균 수주가의 0.01배 — 규모 차이 큼<br>등록업종 표현이 허용업종과 중복 — 건설엔지니어링업(설계, 사업관리, 설계등용역<br>공고 내용과 회사 업종 설명 유사도 68%</span></div><div class="acts"><a class="u" href="https://www.g2b.go.kr/link/PNPE027_01/single/?bidPbancNo=R26BK01769297&amp;bidPbancOrd=000">나라장터 원문</a><a class="bt rv" href="#">검토</a></div></div></div><div class="bk"><span class="no">08</span><div><div class="t">안양시 광역공공하수처리시설 관리대행 용역(2027년~2029년)</div><div class="m">경기도 안양시 · 마감 <span class="d ">D-33</span> (11.18) · 추정가 650.7억</div><div class="q"><b>참가 자격</b><span>면허 제한 없음 ✓ · 지역 제한 없음 ✓ · 규모 미입력</span></div><div class="w"><b>추천 근거</b><span>추정가가 회사 평균 수주가의 13.92배 — 규모 차이 큼<br>등록업종 표현이 허용업종과 중복 — 000㎥, 10, 공공하수도<br>공고 내용과 회사 업종 설명 유사도 74%</span></div><div class="acts"><a class="u" href="https://www.g2b.go.kr/link/PNPE027_01/single/?bidPbancNo=R26BK01772155&amp;bidPbancOrd=000">나라장터 원문</a><a class="bt rv" href="#">검토</a></div></div></div><div class="bk"><span class="no">09</span><div><div class="t">신길동 일원 하수관로 정비공사(1단계) 건설사업관리용역</div><div class="m">경기도 안산시 상하수도사업소 · 마감 <span class="d ">D-12</span> (10.28) · 추정가 13.5억</div><div class="q"><b>참가 자격</b><span>면허 충족 ✓ · 지역 제한 없음 ✓ · 규모 미입력</span></div><div class="w"><b>추천 근거</b><span>등록업종 표현이 허용업종과 중복 — 건설엔지니어링업(설계, 사업관리<br>공고 내용과 회사 업종 설명 유사도 72%</span></div><div class="acts"><a class="u" href="https://www.g2b.go.kr/link/PNPE027_01/single/?bidPbancNo=R26BK01752112&amp;bidPbancOrd=000">나라장터 원문</a><a class="bt rv" href="#">검토</a></div></div></div><div class="bk"><span class="no">10</span><div><div class="t">국가 핵심광물 전용 비축기지 구축사업 건설사업관리용역(감독권한대행)</div><div class="m">한국광해광업공단 · 마감 <span class="d ">D-20</span> (11.05) · 추정가 62.5억</div><div class="q"><b>참가 자격</b><span>면허 충족 ✓ · 지역 제한 없음 ✓ · 규모 미입력</span></div><div class="w"><b>추천 근거</b><span>추정가가 회사 평균 수주가의 1.34배 — 유사한 규모<br>등록업종 표현이 허용업종과 중복 — 건설엔지니어링업(설계, 사업관리<br>공고 내용과 회사 업종 설명 유사도 69%</span></div><div class="acts"><a class="u" href="https://www.g2b.go.kr/link/PNPE027_01/single/?bidPbancNo=R26BK01740690&amp;bidPbancOrd=000">나라장터 원문</a><a class="bt rv" href="#">검토</a></div></div></div><div class="bk"><span class="no">11</span><div><div class="t">상활 소규모 공공하수처리시설 설치공사 외 3개소 통합 건설사업관리용역</div><div class="m">경기도 여주시 하수사업소 · 마감 <span class="d ">D-12</span> (10.28) · 추정가 26.5억</div><div class="q"><b>참가 자격</b><span>면허 충족 ✓ · 지역 제한 없음 ✓ · 규모 미입력</span></div><div class="w"><b>추천 근거</b><span>등록업종 표현이 허용업종과 중복 — 건설엔지니어링업(설계, 사업관리<br>공고 내용과 회사 업종 설명 유사도 71%</span></div><div class="acts"><a class="u" href="https://www.g2b.go.kr/link/PNPE027_01/single/?bidPbancNo=R26BK01751860&amp;bidPbancOrd=000">나라장터 원문</a><a class="bt rv" href="#">검토</a></div></div></div><div class="bk"><span class="no">12</span><div><div class="t">성남낙생 A-2BL 아파트 건설공사 시공단계 감독권한대행 등 건설사업관리용역</div><div class="m">한국토지주택공사 · 마감 <span class="d ">D-11</span> (10.27) · 추정가 144억</div><div class="q"><b>참가 자격</b><span>면허 충족 ✓ · 지역 제한 없음 ✓ · 규모 미입력</span></div><div class="w"><b>추천 근거</b><span>등록업종 표현이 허용업종과 중복 — 건설엔지니어링업(설계, 사업관리<br>공고 내용과 회사 업종 설명 유사도 70%</span></div><div class="acts"><a class="u" href="https://www.g2b.go.kr/link/PNPE027_01/single/?bidPbancNo=R26BK01718563&amp;bidPbancOrd=001">나라장터 원문</a><a class="bt rv" href="#">검토</a></div></div></div></div></div><div class="v-table"><div class="th"><span>#</span><span>공고 · 발주기관 · 근거</span><span class="r">마감</span><span class="r">추정가</span></div><div class="tr"><span class="no">01</span><span><span class="t">송탄정수장 공업용수공급 시설공사(1공구)</span><span class="sub">경기도 평택시 상하수도사업소<span class="why">재출현 기관</span></span></span><span class="r d ">D-13<small>10.29</small></span><span class="r">50.3억</span></div><div class="x on"><div><span class="k">참가 자격</span><ul><li class="ok">면허 — 제한 없음</li><li class="ok">지역 — 제한 없음</li><li class="todo">규모 — 중소기업 확인서 요구 여부는 문서 조건에서, 회사 규모 미입력</li></ul></div><div><span class="k">추천 근거</span><ul><li>경기도 평택시 상하수도사업소 — 과거 거래 이력 있음</li><li>추정가가 회사 평균 수주가의 1.08배 — 유사한 규모</li><li>공고 내용과 회사 업종 설명 유사도 73%</li></ul></div><div class="acts"><a class="bt dark" href="https://www.g2b.go.kr/link/PNPE027_01/single/?bidPbancNo=R26BK01773124&amp;bidPbancOrd=000">나라장터 원문</a><a class="bt rv" href="#">검토</a></div></div><div class="tr"><span class="no">02</span><span><span class="t">중랑물재생센터 제1처리장 관리대행</span><span class="sub">서울특별시 물재생센터 중랑물재생센터<span class="why">업종·물품 일치</span></span></span><span class="r d ">D-40<small>11.25</small></span><span class="r">61.1억</span></div><div class="x "><div><span class="k">참가 자격</span><ul><li class="ok">면허 — 제한 없음</li><li class="ok">지역 — 제한 없음</li><li class="todo">규모 — 중소기업 확인서 요구 여부는 문서 조건에서, 회사 규모 미입력</li></ul></div><div><span class="k">추천 근거</span><ul><li>추정가가 회사 평균 수주가의 1.31배 — 유사한 규모</li><li>등록업종 표현이 허용업종과 중복 — 000㎥, 10, 공공하수도</li><li>공고 내용과 회사 업종 설명 유사도 74%</li></ul></div><div class="acts"><a class="bt dark" href="https://www.g2b.go.kr/link/PNPE027_01/single/?bidPbancNo=R26BK01771325&amp;bidPbancOrd=001">나라장터 원문</a><a class="bt rv" href="#">검토</a></div></div><div class="tr"><span class="no">03</span><span><span class="t">송탄정수장 공업용수공급 시설공사(2공구)</span><span class="sub">경기도 평택시 상하수도사업소<span class="why">재출현 기관</span></span></span><span class="r d ">D-13<small>10.29</small></span><span class="r">76.9억</span></div><div class="x "><div><span class="k">참가 자격</span><ul><li class="ok">면허 — 제한 없음</li><li class="ok">지역 — 제한 없음</li><li class="todo">규모 — 중소기업 확인서 요구 여부는 문서 조건에서, 회사 규모 미입력</li></ul></div><div><span class="k">추천 근거</span><ul><li>경기도 평택시 상하수도사업소 — 과거 거래 이력 있음</li><li>공고 내용과 회사 업종 설명 유사도 75%</li></ul></div><div class="acts"><a class="bt dark" href="https://www.g2b.go.kr/link/PNPE027_01/single/?bidPbancNo=R26BK01772889&amp;bidPbancOrd=000">나라장터 원문</a><a class="bt rv" href="#">검토</a></div></div><div class="tr"><span class="no">04</span><span><span class="t">국가소유(여수 4단계) 공공폐수처리시설 관리대행</span><span class="sub">한국환경공단<span class="why">업종·물품 일치</span></span></span><span class="r d ">D-26<small>11.11</small></span><span class="r">41.2억</span></div><div class="x "><div><span class="k">참가 자격</span><ul><li class="ok">면허 — 충족</li><li class="ok">지역 — 제한 없음</li><li class="todo">규모 — 중소기업 확인서 요구 여부는 문서 조건에서, 회사 규모 미입력</li></ul></div><div><span class="k">추천 근거</span><ul><li>추정가가 회사 평균 수주가의 0.88배 — 유사한 규모</li><li>등록업종 표현이 허용업종과 중복 — 000㎥, 10, 공공하수도</li><li>공고 내용과 회사 업종 설명 유사도 74%</li></ul></div><div class="acts"><a class="bt dark" href="https://www.g2b.go.kr/link/PNPE027_01/single/?bidPbancNo=R26BK01751505&amp;bidPbancOrd=000">나라장터 원문</a><a class="bt rv" href="#">검토</a></div></div><div class="tr"><span class="no">05</span><span><span class="t">중랑물재생센터 총인처리시설 관리대행</span><span class="sub">서울특별시 물재생센터 중랑물재생센터<span class="why">업종·물품 일치</span></span></span><span class="r d ">D-41<small>11.26</small></span><span class="r">36.8억</span></div><div class="x "><div><span class="k">참가 자격</span><ul><li class="ok">면허 — 충족</li><li class="ok">지역 — 제한 없음</li><li class="todo">규모 — 중소기업 확인서 요구 여부는 문서 조건에서, 회사 규모 미입력</li></ul></div><div><span class="k">추천 근거</span><ul><li>추정가가 회사 평균 수주가의 0.79배 — 유사한 규모</li><li>등록업종 표현이 허용업종과 중복 — 000㎥, 10, 공공하수도</li><li>공고 내용과 회사 업종 설명 유사도 74%</li></ul></div><div class="acts"><a class="bt dark" href="https://www.g2b.go.kr/link/PNPE027_01/single/?bidPbancNo=R26BK01771347&amp;bidPbancOrd=000">나라장터 원문</a><a class="bt rv" href="#">검토</a></div></div><div class="gateline"><b>나머지 7건은 이메일 등록 후 공개</b><span class="dim">상위 5건은 등록 없이 공개 · 비밀번호 없음</span><span class="sp"></span><span class="in"><span>you@company.co.kr</span><span class="bt dark">이메일 등록</span></span></div><div class="fade"><div class="tr"><span class="no">06</span><span><span class="t">중랑물재생센터 일부시설물 관리대행</span><span class="sub">서울특별시 물재생센터 중랑물재생센터<span class="why">업종·물품 일치</span></span></span><span class="r d ">D-39<small>11.24</small></span><span class="r">199.7억</span></div><div class="x "><div><span class="k">참가 자격</span><ul><li class="ok">면허 — 제한 없음</li><li class="ok">지역 — 제한 없음</li><li class="todo">규모 — 중소기업 확인서 요구 여부는 문서 조건에서, 회사 규모 미입력</li></ul></div><div><span class="k">추천 근거</span><ul><li>등록업종 표현이 허용업종과 중복 — 000㎥, 10, 공공하수도</li><li>공고 내용과 회사 업종 설명 유사도 75%</li></ul></div><div class="acts"><a class="bt dark" href="https://www.g2b.go.kr/link/PNPE027_01/single/?bidPbancNo=R26BK01771266&amp;bidPbancOrd=001">나라장터 원문</a><a class="bt rv" href="#">검토</a></div></div><div class="tr"><span class="no">07</span><span><span class="t">양산하수처리장 악취저감사업 실시설계용역</span><span class="sub">경상남도 양산시 상하수도사업소<span class="why">지역 매칭</span></span></span><span class="r d hot">D-4<small>10.20</small></span><span class="r">5,808만</span></div><div class="x "><div><span class="k">참가 자격</span><ul><li class="ok">면허 — 충족</li><li class="ok">지역 — 자격 충족</li><li class="todo">규모 — 중소기업 확인서 요구 여부는 문서 조건에서, 회사 규모 미입력</li></ul></div><div><span class="k">추천 근거</span><ul><li>해당 기관 최근 낙찰의 50%를 같은 회사가 수주</li><li>공고의 지역 제한이 본사 소재지 경상남도와 일치</li><li>추정가가 회사 평균 수주가의 0.01배 — 규모 차이 큼</li><li>등록업종 표현이 허용업종과 중복 — 건설엔지니어링업(설계, 사업관리, 설계등용역</li><li>공고 내용과 회사 업종 설명 유사도 68%</li></ul></div><div class="acts"><a class="bt dark" href="https://www.g2b.go.kr/link/PNPE027_01/single/?bidPbancNo=R26BK01769297&amp;bidPbancOrd=000">나라장터 원문</a><a class="bt rv" href="#">검토</a></div></div><div class="tr"><span class="no">08</span><span><span class="t">안양시 광역공공하수처리시설 관리대행 용역(2027년~2029년)</span><span class="sub">경기도 안양시<span class="why">업종·물품 일치</span></span></span><span class="r d ">D-33<small>11.18</small></span><span class="r">650.7억</span></div><div class="x "><div><span class="k">참가 자격</span><ul><li class="ok">면허 — 제한 없음</li><li class="ok">지역 — 제한 없음</li><li class="todo">규모 — 중소기업 확인서 요구 여부는 문서 조건에서, 회사 규모 미입력</li></ul></div><div><span class="k">추천 근거</span><ul><li>추정가가 회사 평균 수주가의 13.92배 — 규모 차이 큼</li><li>등록업종 표현이 허용업종과 중복 — 000㎥, 10, 공공하수도</li><li>공고 내용과 회사 업종 설명 유사도 74%</li></ul></div><div class="acts"><a class="bt dark" href="https://www.g2b.go.kr/link/PNPE027_01/single/?bidPbancNo=R26BK01772155&amp;bidPbancOrd=000">나라장터 원문</a><a class="bt rv" href="#">검토</a></div></div><div class="tr"><span class="no">09</span><span><span class="t">신길동 일원 하수관로 정비공사(1단계) 건설사업관리용역</span><span class="sub">경기도 안산시 상하수도사업소<span class="why">업종·물품 일치</span></span></span><span class="r d ">D-12<small>10.28</small></span><span class="r">13.5억</span></div><div class="x "><div><span class="k">참가 자격</span><ul><li class="ok">면허 — 충족</li><li class="ok">지역 — 제한 없음</li><li class="todo">규모 — 중소기업 확인서 요구 여부는 문서 조건에서, 회사 규모 미입력</li></ul></div><div><span class="k">추천 근거</span><ul><li>등록업종 표현이 허용업종과 중복 — 건설엔지니어링업(설계, 사업관리</li><li>공고 내용과 회사 업종 설명 유사도 72%</li></ul></div><div class="acts"><a class="bt dark" href="https://www.g2b.go.kr/link/PNPE027_01/single/?bidPbancNo=R26BK01752112&amp;bidPbancOrd=000">나라장터 원문</a><a class="bt rv" href="#">검토</a></div></div><div class="tr"><span class="no">10</span><span><span class="t">국가 핵심광물 전용 비축기지 구축사업 건설사업관리용역(감독권한대행)</span><span class="sub">한국광해광업공단<span class="why">업종·물품 일치</span></span></span><span class="r d ">D-20<small>11.05</small></span><span class="r">62.5억</span></div><div class="x "><div><span class="k">참가 자격</span><ul><li class="ok">면허 — 충족</li><li class="ok">지역 — 제한 없음</li><li class="todo">규모 — 중소기업 확인서 요구 여부는 문서 조건에서, 회사 규모 미입력</li></ul></div><div><span class="k">추천 근거</span><ul><li>추정가가 회사 평균 수주가의 1.34배 — 유사한 규모</li><li>등록업종 표현이 허용업종과 중복 — 건설엔지니어링업(설계, 사업관리</li><li>공고 내용과 회사 업종 설명 유사도 69%</li></ul></div><div class="acts"><a class="bt dark" href="https://www.g2b.go.kr/link/PNPE027_01/single/?bidPbancNo=R26BK01740690&amp;bidPbancOrd=000">나라장터 원문</a><a class="bt rv" href="#">검토</a></div></div><div class="tr"><span class="no">11</span><span><span class="t">상활 소규모 공공하수처리시설 설치공사 외 3개소 통합 건설사업관리용역</span><span class="sub">경기도 여주시 하수사업소<span class="why">업종·물품 일치</span></span></span><span class="r d ">D-12<small>10.28</small></span><span class="r">26.5억</span></div><div class="x "><div><span class="k">참가 자격</span><ul><li class="ok">면허 — 충족</li><li class="ok">지역 — 제한 없음</li><li class="todo">규모 — 중소기업 확인서 요구 여부는 문서 조건에서, 회사 규모 미입력</li></ul></div><div><span class="k">추천 근거</span><ul><li>등록업종 표현이 허용업종과 중복 — 건설엔지니어링업(설계, 사업관리</li><li>공고 내용과 회사 업종 설명 유사도 71%</li></ul></div><div class="acts"><a class="bt dark" href="https://www.g2b.go.kr/link/PNPE027_01/single/?bidPbancNo=R26BK01751860&amp;bidPbancOrd=000">나라장터 원문</a><a class="bt rv" href="#">검토</a></div></div><div class="tr"><span class="no">12</span><span><span class="t">성남낙생 A-2BL 아파트 건설공사 시공단계 감독권한대행 등 건설사업관리용역</span><span class="sub">한국토지주택공사<span class="why">업종·물품 일치</span></span></span><span class="r d ">D-11<small>10.27</small></span><span class="r">144억</span></div><div class="x "><div><span class="k">참가 자격</span><ul><li class="ok">면허 — 충족</li><li class="ok">지역 — 제한 없음</li><li class="todo">규모 — 중소기업 확인서 요구 여부는 문서 조건에서, 회사 규모 미입력</li></ul></div><div><span class="k">추천 근거</span><ul><li>등록업종 표현이 허용업종과 중복 — 건설엔지니어링업(설계, 사업관리</li><li>공고 내용과 회사 업종 설명 유사도 70%</li></ul></div><div class="acts"><a class="bt dark" href="https://www.g2b.go.kr/link/PNPE027_01/single/?bidPbancNo=R26BK01718563&amp;bidPbancOrd=001">나라장터 원문</a><a class="bt rv" href="#">검토</a></div></div></div></div></div></div><div class="foot">두 단 시안 — 왼쪽 회사 정보(기준 띠를 세로로, 스크롤해도 고정) / 오른쪽 공고. 게이트는 5건 바로 뒤, 흐린 7건은 그 아래(flow 는 흐림 뒤에 게이트 — 블록은 흐림이 1,000px 라 순서를 바꿨다). 스위치로 블록(자격·근거 상시) / 표(1줄, 행 클릭 펼침)를 비교. 머리 장면(선 캔버스)은 flow.html 결정 그대로 이 위에 얹는다. 720px 이하는 한 단, 회사 정보는 접힌 한 줄, 공고는 블록만. 숫자·공고명은 2026-10-16 실제 추천 결과(data/).</div></div><script>
 document.querySelectorAll('.sw span').forEach(s => s.onclick = () => { document.body.dataset.v = s.dataset.v;
   document.querySelectorAll('.sw span').forEach(x => x.classList.toggle('on', x === s)); });
 document.querySelectorAll('.v-table .tr').forEach(t => t.onclick = () => t.nextElementSibling.classList.toggle('on'));

diff --git a/docs/design/scripts/gen_split.py b/docs/design/scripts/gen_split.py
@@ -121,7 +121,7 @@ def block(i, r, prof):
     _, meta = _meta(r)
     return (f'<div class="bk"><span class="no">{i:02d}</span><div><div class="t">{esc(r["bid_ntce_nm"])}</div><div class="m">{esc(org)} · {meta}</div>'
             f'<div class="q"><b>참가 자격</b><span>{qual_line(r, prof)}</span></div>'
-            f'<div class="w"><b>추천 근거</b><span>{" · ".join(why_lines(r, org)[:2])}</span></div>'
+            f'<div class="w"><b>추천 근거</b><span>{"<br>".join(why_lines(r, org))}</span></div>'   # 전부, 한 줄에 하나 — 2개로 자르면 근거가 빈약해 보인다(실제 2~3개, 최대 5)
             f'<div class="acts"><a class="u" href="{esc(r["bid_ntce_url"])}">나라장터 원문</a><a class="bt rv" href="#">검토</a></div></div></div>')
 
 
